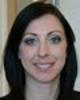
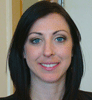
Update documentation

diff --git a/pages/photos.html b/pages/photos.html
@@ -2,7 +2,7 @@
 <html lang="en"
 >
 <head>
-    <title>Overview - Hesselberth Lab</title>
+    <title>Photos - Hesselberth Lab</title>
     <!-- Using the latest rendering mode for IE -->
     <meta http-equiv="X-UA-Compatible" content="IE=edge">
     <meta charset="utf-8">
@@ -10,16 +10,16 @@
 
 
 
-<link rel="canonical" href="http://hesselberthlab.github.io/">
+<link rel="canonical" href="http://hesselberthlab.github.io/pages/photos.html">
 
         <meta name="author" content="Jay Hesselberth" />
-        <meta name="description" content="Greetings. Welcome to the Hesselberth lab in the Biochemistry and Molecular Genetics department at the University of Colorado School of Medicine. We develop molecular methods to study DNA, RNA and proteins, and apply them to study specific biological problems. We also collaborate extensively with others to apply these methods as ..." />
+        <meta name="description" content="Coming soon" />
 
     <meta property="og:site_name" content="Hesselberth Lab" />
     <meta property="og:type" content="article"/>
-    <meta property="og:title" content="Overview"/>
-    <meta property="og:url" content="http://hesselberthlab.github.io/"/>
-    <meta property="og:description" content="Greetings. Welcome to the Hesselberth lab in the Biochemistry and Molecular Genetics department at the University of Colorado School of Medicine. We develop molecular methods to study DNA, RNA and proteins, and apply them to study specific biological problems. We also collaborate extensively with others to apply these methods as ..." />
+    <meta property="og:title" content="Photos"/>
+    <meta property="og:url" content="http://hesselberthlab.github.io/pages/photos.html"/>
+    <meta property="og:description" content="Coming soon" />
 
 
     <!-- Bootstrap -->
@@ -68,74 +68,10 @@ Hesselberth Lab            </a>
         <div class="col-sm-9">
 
     <section id="content" class="body">
-        <h1 class="entry-title">Overview</h1>
+        <h1 class="entry-title">Photos</h1>
         
         <div class="entry-content">
-            <p><strong>Greetings.</strong> Welcome to the <a class="reference external" href="http://www.ucdenver.edu/academics/colleges/medicalschool/departments/biochemistry/Faculty/PrimaryFaculty/Pages/Hesselberth.aspx">Hesselberth lab</a>
-in the <a class="reference external" href="http://www.ucdenver.edu/academics/colleges/medicalschool/departments/biochemistry/Pages/Home.aspx">Biochemistry and Molecular Genetics department</a>
-at the <a class="reference external" href="http://www.ucdenver.edu/anschutz/Pages/landing.aspx">University of Colorado School of Medicine</a>. We develop
-molecular methods to study DNA, RNA and proteins, and apply them to study
-specific biological problems. We also collaborate extensively with others
-to apply these methods as broadly as possible.</p>
-<p><span class="fa fa-flask fa-3x fa-border fa-color-zissou pull-left"></span> <strong>DNA modification and
-mutation</strong>. We are developing genome-scale methods for studying how DNA
-modifications lead to mutation. Our new <a class="reference external" href="http://www.ncbi.nlm.nih.gov/pubmed/25015380">Excision-seq method</a> enables high resolution
-mapping of modified nucleobases throughout the genome. We aim to use this
-method to dissect the mutational process, to understand how hot spots of
-mutation form in the human genome. We are currently using Excision-seq to
-study uracilcation of HIV genomes during infection, and mammalian DNA
-demethylation. We are also extending the method to characterize other
-types of DNA damage in genomes, including sugar and phosphate
-modifications.</p>
-<p><span class="fa fa-flask fa-3x fa-border fa-color-zissou pull-left"></span> <strong>RNA healing and decay</strong>. We
-have developed <a class="reference external" href="http://www.ncbi.nlm.nih.gov/pubmed/20075163">methods</a> to
-identify RNAs with &quot;dirty&quot; ends that are generated by programmed or
-unintentional RNA cleavage. We discovered that healing of these &quot;dirty&quot;
-ends governs the fate of RNA fragments, poising them for further
-processing or decay. Moreover, competition between RNA repair and decay
-regulates an important cellular homeostasis pathway, suggesting that this
-mode of regulation may be widespread. We are currently developing new
-methods for identifying unhealed RNAs, and are applying this new
-collection of methods to identify RNAs subject to healing, repair and
-decay.</p>
-<hr class="docutils" />
-<div class="section" id="news-span-class-fa-fa-newspaper-o-fa-color-zissou-span">
-<h2>News <span class="fa fa-newspaper-o fa-color-zissou"></span></h2>
-<!-- check news items with `make publish` to confirm they fit in 1 line on -->
-<!-- the page. -->
-<div class="line-block">
-<div class="line"><span class="fa fa-bullhorn"></span> <a class="reference external" href="https://t.co/JkUp4oxUQj">Recruiting</a> a new genomics
-faculty member [2014 Aug 31]</div>
-</div>
-<div class="line-block">
-<div class="line"><span class="fa fa-birthday-cake"></span> Sally passed her comprehensive exam! [2014 Aug 16]</div>
-</div>
-<div class="line-block">
-<div class="line"><span class="fa fa-group"></span> Jay, Sally and Suzi attended the GSA Yeast meeting in
-Seattle. [2014 Jul 29]</div>
-</div>
-<div class="line-block">
-<div class="line"><span class="fa fa-group"></span> Jay gave a talk at the FASEB RNA Decay meeting in Big
-Sky, MT [2014 Jul 6]</div>
-</div>
-<div class="line-block">
-<div class="line"><span class="fa fa-home"></span> Patrick Cherry joins the lab! [2014 Jul 1]</div>
-</div>
-<div class="line-block">
-<div class="line"><span class="fa fa-book"></span> Our manuscript describing <a class="reference external" href="http://www.ncbi.nlm.nih.gov/pubmed/25015380">Excision-seq</a> is
-published in Genome Research. [2014 Jul 1]</div>
-</div>
-<div class="line-block">
-<div class="line"><span class="fa fa-book"></span> Our manuscript describing a new mode of <a class="reference external" href="http://www.ncbi.nlm.nih.gov/pubmed/24919400">branched RNA
-turnover</a> is
-published in RNA.  [2014 Apr 1]</div>
-</div>
-<div class="line-block">
-<div class="line"><span class="fa fa-book"></span> Our study with Dave Barton and Daphne Cooper to
-globally map RNase L substrates is published in <a class="reference external" href="http://www.ncbi.nlm.nih.gov/pubmed/24500209">NAR</a>
-[2014 Apr 1]</div>
-</div>
-</div>
+            <p><strong>Coming soon</strong></p>
 
         </div>
     </section>

diff --git a/pages/people.html b/pages/people.html
@@ -13,13 +13,13 @@
 <link rel="canonical" href="http://hesselberthlab.github.io/pages/people.html">
 
         <meta name="author" content="Jay Hesselberth" />
-        <meta name="description" content="Current Principal Investigator Jay Hesselberth Likes: Data, coffee, BBQ, craft beer Dislikes: Mayonnaise, cats Students Suzi Bryan Likes: Dislikes: Patrick Cherry Likes: Dislikes: Sally Peach Likes: Dislikes: Postdocs and PRAs Austin Gillen PhD Likes: Dislikes: Monica Ransom PhD Likes: Dislikes: Monty Prekeris Likes: Dislikes: Kerri York Likes: Dislikes: Former Steve ..." />
+        <meta name="description" content="Current Principal Investigator Jay Hesselberth Likes: Data, coffee, BBQ, craft beer Dislikes: Mayonnaise, cats Students Suzi Bryan Likes: Dislikes: Patrick Cherry Likes: Dislikes: Sally Peach Likes: mountains &amp; rocks, world adventures, real books, the youth Dislikes: peanuts, Wolf Parade, cats Postdocs and PRAs Austin Gillen PhD Likes: Dislikes: Monica Ransom PhD ..." />
 
     <meta property="og:site_name" content="Hesselberth Lab" />
     <meta property="og:type" content="article"/>
     <meta property="og:title" content="People"/>
     <meta property="og:url" content="http://hesselberthlab.github.io/pages/people.html"/>
-    <meta property="og:description" content="Current Principal Investigator Jay Hesselberth Likes: Data, coffee, BBQ, craft beer Dislikes: Mayonnaise, cats Students Suzi Bryan Likes: Dislikes: Patrick Cherry Likes: Dislikes: Sally Peach Likes: Dislikes: Postdocs and PRAs Austin Gillen PhD Likes: Dislikes: Monica Ransom PhD Likes: Dislikes: Monty Prekeris Likes: Dislikes: Kerri York Likes: Dislikes: Former Steve ..." />
+    <meta property="og:description" content="Current Principal Investigator Jay Hesselberth Likes: Data, coffee, BBQ, craft beer Dislikes: Mayonnaise, cats Students Suzi Bryan Likes: Dislikes: Patrick Cherry Likes: Dislikes: Sally Peach Likes: mountains &amp; rocks, world adventures, real books, the youth Dislikes: peanuts, Wolf Parade, cats Postdocs and PRAs Austin Gillen PhD Likes: Dislikes: Monica Ransom PhD ..." />
 
 
     <!-- Bootstrap -->
@@ -52,6 +52,7 @@ Hesselberth Lab            </a>
                     <li><a href="/pages/people.html">People <span class="fa fa-group"></span></a></li>
                     <li><a href="/pages/publications.html">Publications <span class="fa fa-book"></span></a></li>
                     <li><a href="/pages/resources.html">Resources <span class="fa fa-archive"></span></a></li>
+                    <li><a href="/pages/photos.html">Photos <span class="fa fa-camera-retro"></span></a></li>
                     <li><a href="/pages/contact.html">Contact <span class="fa fa-envelope"></span></a></li>
             </ul>
             <!-- <ul class="nav navbar-nav navbar-right">
@@ -75,7 +76,7 @@ Hesselberth Lab            </a>
 <div class="section" id="principal-investigator">
 <h3>Principal Investigator</h3>
 <div class="figure">
-<img alt="Jay Hesselberth" src="../images/people/resize_jay.png" />
+<img alt="Jay Hesselberth" src="../images/people/jay.png" />
 <p class="caption"><strong>Jay Hesselberth</strong></p>
 <div class="legend">
 <div class="line-block">
@@ -89,7 +90,7 @@ Hesselberth Lab            </a>
 <div class="section" id="students">
 <h3>Students</h3>
 <div class="figure">
-<img alt="Suzi Bryan" src="../images/people/resize_jay.png" />
+<img alt="Suzi Bryan" src="../images/people/suzi.png" />
 <p class="caption"><strong>Suzi Bryan</strong></p>
 <div class="legend">
 <div class="line-block">
@@ -109,12 +110,12 @@ Hesselberth Lab            </a>
 </div>
 </div>
 <div class="figure">
-<img alt="Sally Peach" src="../images/people/resize_jay.png" />
+<img alt="Sally Peach" src="../images/people/sally-money.png" />
 <p class="caption"><strong>Sally Peach</strong></p>
 <div class="legend">
 <div class="line-block">
-<div class="line"><strong>Likes:</strong></div>
-<div class="line"><strong>Dislikes:</strong></div>
+<div class="line"><strong>Likes:</strong> mountains &amp; rocks, world adventures, real books, the youth</div>
+<div class="line"><strong>Dislikes:</strong> peanuts, Wolf Parade, cats</div>
 </div>
 </div>
 </div>
@@ -122,7 +123,7 @@ Hesselberth Lab            </a>
 <div class="section" id="postdocs-and-pras">
 <h3>Postdocs and PRAs</h3>
 <div class="figure">
-<img alt="Austin Gillen" src="../images/people/resize_jay.png" />
+<img alt="Austin Gillen" src="../images/people/austin.png" />
 <p class="caption"><strong>Austin Gillen PhD</strong></p>
 <div class="legend">
 <div class="line-block">
@@ -132,7 +133,7 @@ Hesselberth Lab            </a>
 </div>
 </div>
 <div class="figure">
-<img alt="Monica Ransom, PhD" src="../images/people/resize_jay.png" />
+<img alt="Monica Ransom, PhD" src="../images/people/monica.png" />
 <p class="caption"><strong>Monica Ransom PhD</strong></p>
 <div class="legend">
 <div class="line-block">
@@ -142,7 +143,7 @@ Hesselberth Lab            </a>
 </div>
 </div>
 <div class="figure">
-<img alt="Monty Prekeris" src="../images/people/resize_jay.png" />
+<img alt="Monty Prekeris" src="../images/people/monty.png" />
 <p class="caption"><strong>Monty Prekeris</strong></p>
 <div class="legend">
 <div class="line-block">
@@ -156,8 +157,9 @@ Hesselberth Lab            </a>
 <p class="caption"><strong>Kerri York</strong></p>
 <div class="legend">
 <div class="line-block">
-<div class="line"><strong>Likes:</strong></div>
-<div class="line"><strong>Dislikes:</strong></div>
+<div class="line"><strong>Likes:</strong> Horses, Dogs, Cats, Yoga, 4wheeling, Football, and DNA/RNA
+Gels</div>
+<div class="line"><strong>Dislikes:</strong> Horror Movies, Traffic, and RNases</div>
 </div>
 </div>
 </div>
@@ -226,7 +228,7 @@ Hesselberth Lab            </a>
             <a href="http://getbootstrap.com" target="_blank">Bootstrap</a>,
             <a href="http://fortawesome.github.io/Font-Awesome/" target="_blank">Font Awesome</a>         </div>
          <div class="col-xs-5"><p class="pull-right">
-            Last modified: Wed 03 September 2014
+            Last modified: Thu 04 September 2014
          </p></div>
          <!-- 
             <div class="col-xs-2"><p class="pull-right"><i class="fa fa-arrow-up"></i> <a href="#">Back to top</a></p></div>

diff --git a/pages/contact.html b/pages/contact.html
@@ -13,13 +13,13 @@
 <link rel="canonical" href="http://hesselberthlab.github.io/pages/contact.html">
 
         <meta name="author" content="Jay Hesselberth" />
-        <meta name="description" content="General 303.724.5384 (office) 303.724.5486 (lab) 303.724.3215 (fax) jay.hesselberth gmail.com FedEx / UPS University of Colorado School of Medicine 12801 E 17TH AVE RC1 South 10104 Aurora CO 80045 USPS University of Colorado School of Medicine L18-10104 Mail stop 8101 Aurora CO 80045" />
+        <meta name="description" content="General 303.724.5384 (office) 303.724.5486 (lab) 303.724.3215 (fax) jay.hesselberth@gmail.com FedEx / UPS University of Colorado School of Medicine 12801 E 17TH AVE RC1 South 10104 Aurora CO 80045 USPS University of Colorado School of Medicine L18-10104 Mail stop 8101 Aurora CO 80045" />
 
     <meta property="og:site_name" content="Hesselberth Lab" />
     <meta property="og:type" content="article"/>
     <meta property="og:title" content="Contact"/>
     <meta property="og:url" content="http://hesselberthlab.github.io/pages/contact.html"/>
-    <meta property="og:description" content="General 303.724.5384 (office) 303.724.5486 (lab) 303.724.3215 (fax) jay.hesselberth gmail.com FedEx / UPS University of Colorado School of Medicine 12801 E 17TH AVE RC1 South 10104 Aurora CO 80045 USPS University of Colorado School of Medicine L18-10104 Mail stop 8101 Aurora CO 80045" />
+    <meta property="og:description" content="General 303.724.5384 (office) 303.724.5486 (lab) 303.724.3215 (fax) jay.hesselberth@gmail.com FedEx / UPS University of Colorado School of Medicine 12801 E 17TH AVE RC1 South 10104 Aurora CO 80045 USPS University of Colorado School of Medicine L18-10104 Mail stop 8101 Aurora CO 80045" />
 
 
     <!-- Bootstrap -->
@@ -52,6 +52,7 @@ Hesselberth Lab            </a>
                     <li><a href="/pages/people.html">People <span class="fa fa-group"></span></a></li>
                     <li><a href="/pages/publications.html">Publications <span class="fa fa-book"></span></a></li>
                     <li><a href="/pages/resources.html">Resources <span class="fa fa-archive"></span></a></li>
+                    <li><a href="/pages/photos.html">Photos <span class="fa fa-camera-retro"></span></a></li>
                     <li><a href="/pages/contact.html">Contact <span class="fa fa-envelope"></span></a></li>
             </ul>
             <!-- <ul class="nav navbar-nav navbar-right">
@@ -76,7 +77,7 @@ Hesselberth Lab            </a>
 <div class="line"><span class="fa fa-phone"></span>  303.724.5384 (office)</div>
 <div class="line"><span class="fa fa-phone"></span>  303.724.5486 (lab)</div>
 <div class="line"><span class="fa fa-fax"></span>  303.724.3215 (fax)</div>
-<div class="line"><span class="fa fa-envelope"></span> jay.hesselberth gmail.com</div>
+<div class="line"><span class="fa fa-envelope"></span> <a class="reference external" href="mailto:jay.hesselberth&#64;gmail.com">jay.hesselberth&#64;gmail.com</a></div>
 </div>
 </div>
 <div class="section" id="fedex-ups-span-class-fa-fa-thumbs-up-fa-color-zissou-span">

diff --git a/archives.html b/archives.html
@@ -51,6 +51,7 @@ Hesselberth Lab            </a>
                     <li><a href="/pages/people.html">People <span class="fa fa-group"></span></a></li>
                     <li><a href="/pages/publications.html">Publications <span class="fa fa-book"></span></a></li>
                     <li><a href="/pages/resources.html">Resources <span class="fa fa-archive"></span></a></li>
+                    <li><a href="/pages/photos.html">Photos <span class="fa fa-camera-retro"></span></a></li>
                     <li><a href="/pages/contact.html">Contact <span class="fa fa-envelope"></span></a></li>
             </ul>
             <!-- <ul class="nav navbar-nav navbar-right">

diff --git a/authors.html b/authors.html
@@ -51,6 +51,7 @@ Hesselberth Lab            </a>
                     <li><a href="/pages/people.html">People <span class="fa fa-group"></span></a></li>
                     <li><a href="/pages/publications.html">Publications <span class="fa fa-book"></span></a></li>
                     <li><a href="/pages/resources.html">Resources <span class="fa fa-archive"></span></a></li>
+                    <li><a href="/pages/photos.html">Photos <span class="fa fa-camera-retro"></span></a></li>
                     <li><a href="/pages/contact.html">Contact <span class="fa fa-envelope"></span></a></li>
             </ul>
             <!-- <ul class="nav navbar-nav navbar-right">

diff --git a/categories.html b/categories.html
@@ -51,6 +51,7 @@ Hesselberth Lab            </a>
                     <li><a href="/pages/people.html">People <span class="fa fa-group"></span></a></li>
                     <li><a href="/pages/publications.html">Publications <span class="fa fa-book"></span></a></li>
                     <li><a href="/pages/resources.html">Resources <span class="fa fa-archive"></span></a></li>
+                    <li><a href="/pages/photos.html">Photos <span class="fa fa-camera-retro"></span></a></li>
                     <li><a href="/pages/contact.html">Contact <span class="fa fa-envelope"></span></a></li>
             </ul>
             <!-- <ul class="nav navbar-nav navbar-right">

diff --git a/pages/projects.html b/pages/projects.html
@@ -52,6 +52,7 @@ Hesselberth Lab            </a>
                     <li><a href="/pages/people.html">People <span class="fa fa-group"></span></a></li>
                     <li><a href="/pages/publications.html">Publications <span class="fa fa-book"></span></a></li>
                     <li><a href="/pages/resources.html">Resources <span class="fa fa-archive"></span></a></li>
+                    <li><a href="/pages/photos.html">Photos <span class="fa fa-camera-retro"></span></a></li>
                     <li><a href="/pages/contact.html">Contact <span class="fa fa-envelope"></span></a></li>
             </ul>
             <!-- <ul class="nav navbar-nav navbar-right">

diff --git a/pages/publications.html b/pages/publications.html
@@ -52,6 +52,7 @@ Hesselberth Lab            </a>
                     <li><a href="/pages/people.html">People <span class="fa fa-group"></span></a></li>
                     <li><a href="/pages/publications.html">Publications <span class="fa fa-book"></span></a></li>
                     <li><a href="/pages/resources.html">Resources <span class="fa fa-archive"></span></a></li>
+                    <li><a href="/pages/photos.html">Photos <span class="fa fa-camera-retro"></span></a></li>
                     <li><a href="/pages/contact.html">Contact <span class="fa fa-envelope"></span></a></li>
             </ul>
             <!-- <ul class="nav navbar-nav navbar-right">

diff --git a/pages/resources.html b/pages/resources.html
@@ -52,6 +52,7 @@ Hesselberth Lab            </a>
                     <li><a href="/pages/people.html">People <span class="fa fa-group"></span></a></li>
                     <li><a href="/pages/publications.html">Publications <span class="fa fa-book"></span></a></li>
                     <li><a href="/pages/resources.html">Resources <span class="fa fa-archive"></span></a></li>
+                    <li><a href="/pages/photos.html">Photos <span class="fa fa-camera-retro"></span></a></li>
                     <li><a href="/pages/contact.html">Contact <span class="fa fa-envelope"></span></a></li>
             </ul>
             <!-- <ul class="nav navbar-nav navbar-right">
